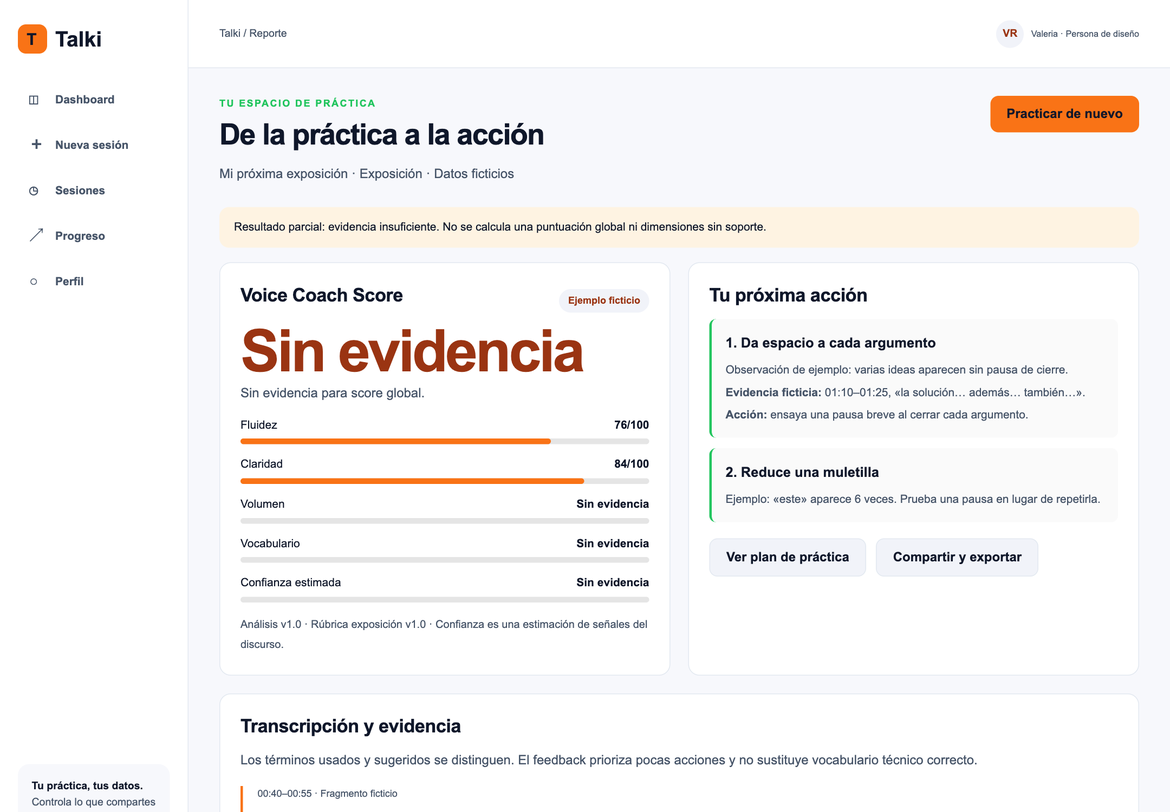
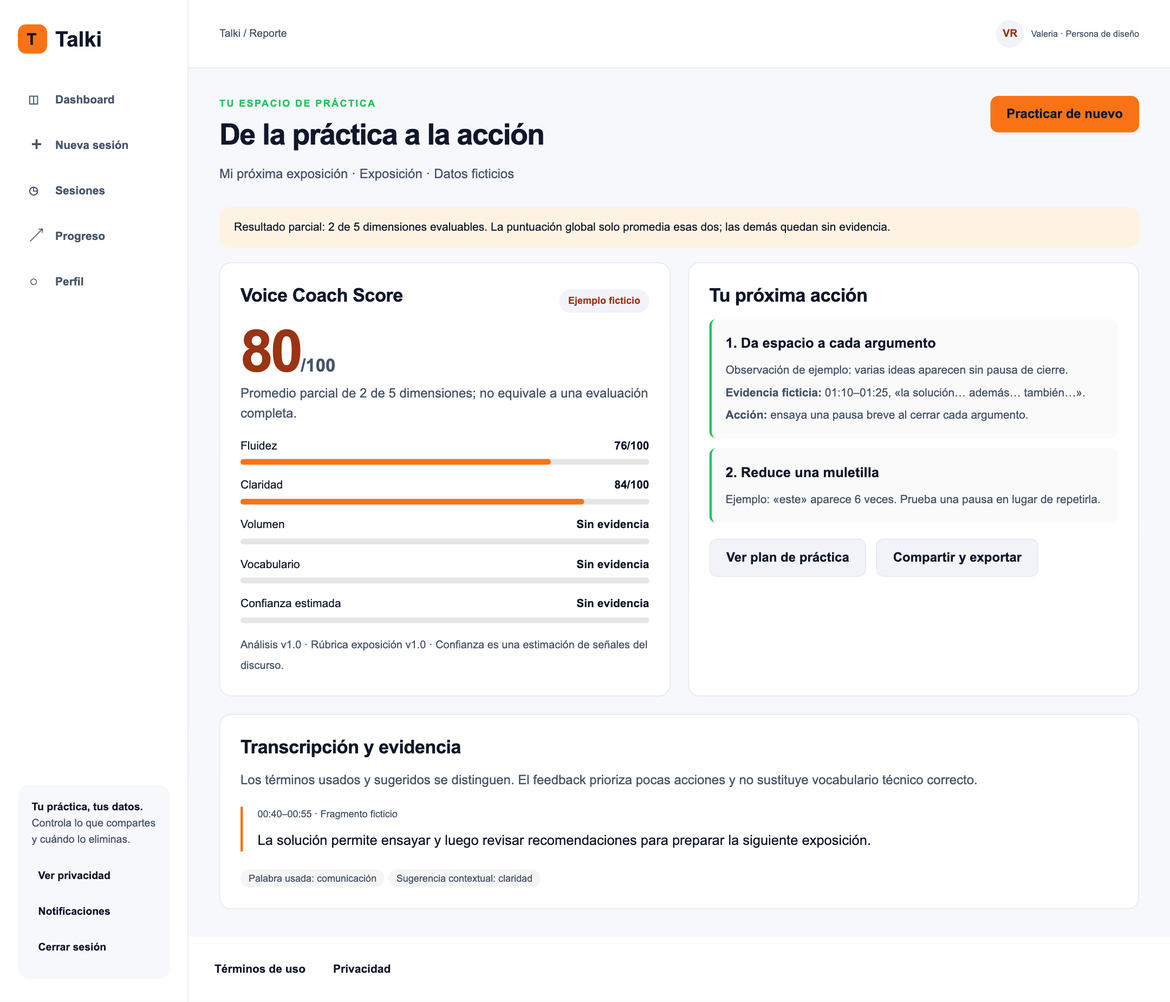
fix(ux): mantiene rúbrica y cobertura en reportes y exportación
El ejemplo parcial promedia sus dos dimensiones evaluables y conserva modo, rúbrica y cobertura en lectura compartida y exportación. Bloquea la comparación global de coberturas distintas. Capturas afectadas actualizadas y recorridos comprobados en web de 1440 px y móvil de 390 px. Actualiza el registro de versión y las explicaciones UX.

diff --git a/assets/ux/prototype/app.js b/assets/ux/prototype/app.js
@@ -13,7 +13,11 @@ const brand = () => `<a class="brand" href="#landing"><span class="brand-icon" a
 const field = (label,name,type='text',value='',extra='') => `<div class="field"><label for="${name}">${label}</label><input id="${name}" name="${name}" type="${type}" value="${escapeHtml(value)}" ${extra}></div>`;
 const head = (title,subtitle,actions='') => `<div class="page-title"><div><div class="eyebrow">Tu espacio de práctica</div><h1 tabindex="-1">${title}</h1><p>${subtitle}</p></div><div class="actions">${actions}</div></div>`;
 const note = text => `<div class="notice">${text}</div>`;
-const dimensions = (partial=false) => ['Fluidez','Claridad','Volumen','Vocabulario','Confianza estimada'].map((name,i)=>`<div class="dimension"><div class="flex-between"><span>${name}</span><strong>${partial && i>1?'Sin evidencia':[76,84,81,73,79][i]+'/100'}</strong></div><div class="dimension-track"><i style="width:${partial&&i>1?0:[76,84,81,73,79][i]}%"></i></div></div>`).join('');
+const sampleScores = [76,84,81,73,79];
+const evaluatedScores = () => demo.insufficient ? sampleScores.slice(0,2) : sampleScores;
+const overallScore = () => {const values=evaluatedScores();return values.length ? Math.round(values.reduce((total,value)=>total+value,0)/values.length) : null;};
+const rubricLabel = () => `${demo.mode.toLowerCase()} v1.0`;
+const dimensions = (partial=false) => ['Fluidez','Claridad','Volumen','Vocabulario','Confianza estimada'].map((name,i)=>`<div class="dimension"><div class="flex-between"><span>${name}</span><strong>${partial && i>1?'Sin evidencia':sampleScores[i]+'/100'}</strong></div><div class="dimension-track"><i style="width:${partial&&i>1?0:sampleScores[i]}%"></i></div></div>`).join('');
 const wave = () => `<div class="wave" aria-hidden="true">${Array.from({length:48},(_,i)=>`<i style="height:${15+Math.abs(Math.sin(i*1.8))*65+Math.abs(Math.cos(i*.4))*25}px"></i>`).join('')}</div>`;
 const chart = () => `<svg class="chart" viewBox="0 0 560 220" role="img" aria-label="Ejemplo ficticio: puntuaciones 65, 71, 68, 76 y 79. No representa resultados reales."><g stroke="var(--border)"><path d="M45 30H535M45 80H535M45 130H535M45 180H535"/></g><g><text x="12" y="34">90</text><text x="12" y="84">80</text><text x="12" y="134">70</text><text x="12" y="184">60</text></g><path d="M55 155L170 125L285 140L400 100L520 85L520 180L55 180Z" fill="var(--muted)"/><path d="M55 155L170 125L285 140L400 100L520 85" fill="none" stroke="var(--chart-1)" stroke-width="3"/><g fill="var(--chart-1)">${[[55,155],[170,125],[285,140],[400,100],[520,85]].map(([x,y])=>`<circle cx="${x}" cy="${y}" r="5"/>`).join('')}</g><g><text x="44" y="208">S1</text><text x="159" y="208">S2</text><text x="274" y="208">S3</text><text x="389" y="208">S4</text><text x="509" y="208">S5</text></g></svg>`;
 function sessionRows(){
@@ -35,13 +39,13 @@ const screens = {
  microphone:()=>shell(head('Comprueba el audio','Antes de practicar, revisa qué información se procesa y valida tu entrada de voz.')+`<div class="stepper"><div class="step"><span>1</span> Configurar</div><div class="step active"><span>2</span> Audio y privacidad</div><div class="step"><span>3</span> Practicar</div></div><div class="two-grid"><div class="card"><h2>Prueba de micrófono</h2><p>Habla una frase corta para comprobar el nivel de entrada en la aplicación final.</p><div class="meter"><span style="width:${demo.mic?'68':'0'}%"></span></div><p id="mic-state">${demo.mic?'Prueba simulada correcta. Nivel suficiente.':'Aún no has probado el audio.'}</p><div class="actions">${button('Simular prueba correcta','mic-ok')}${button('Simular permiso denegado','mic-denied','secondary')}</div><small>Esta demostración no solicita ni captura audio.</small></div><div class="card"><h2>Tú decides sobre tus datos</h2><ul class="details-list"><li>La voz se procesa para transcripción, coaching y análisis autorizados.</li><li>El audio crudo no se conserva por defecto.</li><li>El transcript y feedback se guardan para tu historial.</li><li>El material de contexto solo se utiliza si lo autorizas.</li><li>Puedes revocar acceso y solicitar eliminación desde Privacidad.</li></ul><label class="check"><input id="consent" type="checkbox" ${demo.consent?'checked':''}><span>Autorizo el procesamiento de esta práctica y su material para las finalidades descritas (política propuesta v1.0).</span></label></div></div><div class="actions" style="margin-top:22px">${goButton('Volver a configuración','setup','secondary')}<button type="button" data-action="start-live" ${demo.mic&&demo.consent?'':'disabled'}>Iniciar práctica</button></div>`),
  live:()=>shell(head(escapeHtml(demo.title),`${escapeHtml(demo.mode)} · Objetivo ${demo.duration} min · Demostración sin grabación`,button(demo.muted?'Activar señales':'Silenciar señales','mute','secondary'))+`${demo.disconnected?'<div class="notice warning">Conexión interrumpida. El último checkpoint confirmado se conserva. Reanuda o finaliza con resultado parcial.</div>':''}<div class="two-grid"><section class="live-panel"><span class="tag ${demo.paused||demo.disconnected?'warning':''}">${demo.disconnected?'Interrumpida':demo.paused?'En pausa':'Práctica activa de ejemplo'}</span><div class="timer">02:34 <small style="font-size:17px;color:var(--muted)">/ ${String(demo.duration).padStart(2,'0')}:00</small></div>${wave()}<p>${demo.mode==='Entrevista'||demo.mode==='Sustentación'?'Pregunta de ejemplo: ¿Cómo justificas la decisión principal de tu proyecto?':'Habla con calma. Las señales son discretas y puedes silenciarlas.'}</p>${!demo.muted?'<div class="notice">Señal de ejemplo: cierra la idea y deja una pausa breve.</div>':''}<div class="live-controls">${button(demo.paused?'Reanudar':'Pausar','pause','secondary')}${button('Finalizar práctica','finish','danger')}</div></section><section class="card"><h2>Transcripción en vivo</h2><span class="pill">Contenido ficticio</span><div class="transcript"><small>02:12 · Fragmento confirmado</small>El objetivo de nuestro proyecto es ayudar a estudiantes a practicar su comunicación oral con recomendaciones concretas.</div><p>El último fragmento confirmado puede recuperarse. Lo que no se confirmó antes de una desconexión puede perderse.</p><div class="actions">${button(demo.disconnected?'Reanudar conexión':'Simular desconexión',demo.disconnected?'reconnect':'disconnect','secondary')}</div></section></div>`),
  processing:()=>shell(head('Tu reporte está en camino','El estado distingue espera, procesamiento, reporte disponible y fallo recuperable.')+`<section class="card" style="max-width:760px;margin:auto"><h2>${demo.analysisFailed?'Análisis interrumpido':'Analizando el ensayo de ejemplo'}</h2><div class="meter"><span style="width:${demo.analysisFailed?'45':'75'}%;background:${demo.analysisFailed?'var(--danger)':'var(--primary)'}"></span></div><ul class="details-list"><li>Transcripción consolidada · Completa</li><li>Métricas de discurso · ${demo.analysisFailed?'Fallo recuperable':'En proceso'}</li><li>Feedback con evidencia · Pendiente</li></ul>${demo.analysisFailed?'<div class="notice warning">No se pudo completar el análisis. Puedes reintentar sobre la misma sesión sin crear un reporte duplicado.</div>':note('Puedes volver al historial. El objetivo de diseño es disponer del 95 % de reportes en ≤ 60 s; todavía debe medirse con el producto.')}<div class="actions">${button(demo.analysisFailed?'Reintentar análisis':'Simular reporte disponible',demo.analysisFailed?'retry':'complete')}${button('Simular fallo','analysis-fail','secondary')}${button('Simular evidencia insuficiente','insufficient','secondary')}${goButton('Ir al historial','history','text')}</div></section>`),
- report:()=>demo.deleted?shell(head('Reporte no disponible','El recurso fue retirado y no puede consultarse.')+note('La eliminación lógica bloquea el acceso; la purga física se muestra en Privacidad.')+goButton('Ver privacidad','privacy')):shell(head('De la práctica a la acción',`${escapeHtml(demo.title)} · ${escapeHtml(demo.mode)} · Datos ficticios`,goButton('Practicar de nuevo','setup'))+`${demo.insufficient?'<div class="notice warning">Resultado parcial: evidencia insuficiente. No se calcula una puntuación global ni dimensiones sin soporte.</div>':''}<div class="two-grid"><section class="card"><div class="flex-between"><h2>Voice Coach Score</h2><span class="pill">Ejemplo ficticio</span></div><div class="score-large">${demo.insufficient?'Sin evidencia':'79'}<small>${demo.insufficient?'':'/100'}</small></div><p>${demo.insufficient?'Sin evidencia para score global.':'Referencia para practicar, no una calificación académica.'}</p>${dimensions(demo.insufficient)}<small>Análisis v1.0 · Rúbrica exposición v1.0 · Confianza es una estimación de señales del discurso.</small></section><section class="card"><h2>Tu próxima acción</h2><div class="suggestion"><h3>1. Da espacio a cada argumento</h3><p>Observación de ejemplo: varias ideas aparecen sin pausa de cierre.</p><p><strong>Evidencia ficticia:</strong> 01:10–01:25, «la solución… además… también…».</p><p><strong>Acción:</strong> ensaya una pausa breve al cerrar cada argumento.</p></div><div class="suggestion"><h3>2. Reduce una muletilla</h3><p>Ejemplo: «este» aparece 6 veces. Prueba una pausa en lugar de repetirla.</p></div><div class="actions" style="margin-top:20px">${goButton('Ver plan de práctica','plan','secondary')}${goButton('Compartir y exportar','privacy','secondary')}</div></section></div><section class="card" style="margin-top:22px"><h2>Transcripción y evidencia</h2><p>Los términos usados y sugeridos se distinguen. El feedback prioriza pocas acciones y no sustituye vocabulario técnico correcto.</p><div class="transcript"><small>00:40–00:55 · Fragmento ficticio</small>La solución permite ensayar y luego revisar recomendaciones para preparar la siguiente exposición.</div><span class="tag muted">Palabra usada: comunicación</span> <span class="tag muted">Sugerencia contextual: claridad</span></section>`),
+ report:()=>demo.deleted?shell(head('Reporte no disponible','El recurso fue retirado y no puede consultarse.')+note('La eliminación lógica bloquea el acceso; la purga física se muestra en Privacidad.')+goButton('Ver privacidad','privacy')):shell(head('De la práctica a la acción',`${escapeHtml(demo.title)} · ${escapeHtml(demo.mode)} · Datos ficticios`,goButton('Practicar de nuevo','setup'))+`${demo.insufficient?'<div class="notice warning">Resultado parcial: 2 de 5 dimensiones evaluables. La puntuación global solo promedia esas dos; las demás quedan sin evidencia.</div>':''}<div class="two-grid"><section class="card"><div class="flex-between"><h2>Voice Coach Score</h2><span class="pill">Ejemplo ficticio</span></div><div class="score-large">${overallScore() ?? 'Sin evidencia'}<small>${overallScore()===null?'':'/100'}</small></div><p>${demo.insufficient?'Promedio parcial de 2 de 5 dimensiones; no equivale a una evaluación completa.':'Referencia para practicar, no una calificación académica.'}</p>${dimensions(demo.insufficient)}<small>Análisis v1.0 · Rúbrica ${escapeHtml(rubricLabel())} · Confianza es una estimación de señales del discurso.</small></section><section class="card"><h2>Tu próxima acción</h2><div class="suggestion"><h3>1. Da espacio a cada argumento</h3><p>Observación de ejemplo: varias ideas aparecen sin pausa de cierre.</p><p><strong>Evidencia ficticia:</strong> 01:10–01:25, «la solución… además… también…».</p><p><strong>Acción:</strong> ensaya una pausa breve al cerrar cada argumento.</p></div><div class="suggestion"><h3>2. Reduce una muletilla</h3><p>Ejemplo: «este» aparece 6 veces. Prueba una pausa en lugar de repetirla.</p></div><div class="actions" style="margin-top:20px">${goButton('Ver plan de práctica','plan','secondary')}${goButton('Compartir y exportar','privacy','secondary')}</div></section></div><section class="card" style="margin-top:22px"><h2>Transcripción y evidencia</h2><p>Los términos usados y sugeridos se distinguen. El feedback prioriza pocas acciones y no sustituye vocabulario técnico correcto.</p><div class="transcript"><small>00:40–00:55 · Fragmento ficticio</small>La solución permite ensayar y luego revisar recomendaciones para preparar la siguiente exposición.</div><span class="tag muted">Palabra usada: comunicación</span> <span class="tag muted">Sugerencia contextual: claridad</span></section>`),
  history:()=>shell(head('Tu historial','Recupera reportes propios y encuentra la práctica que quieres revisar.',goButton('Nueva práctica','setup'))+`<div class="card"><div class="search-bar"><div class="field"><label for="history-search">Buscar por título</label><input id="history-search" type="search" placeholder="Ej.: exposición"></div><div class="field"><label for="history-mode">Modo</label><select id="history-mode"><option>Todos</option><option>Exposición</option><option>Pitch</option></select></div></div><div id="history-results">${sessionRows()}</div><div class="actions" style="margin-top:18px">${goButton('Comparar dos prácticas','compare','secondary')}${goButton('Ver progreso','progress','text')}</div></div>`),
  progress:()=>shell(head('Observa tu evolución','Compara evidencia compatible y elige una acción para tu siguiente ensayo.',goButton('Comparar sesiones','compare','secondary'))+`${demo.deleted?note('El recurso eliminado ya no participa en la tendencia de este recorrido.'):''}<div class="two-grid"><section class="card"><div class="flex-between"><h2>Voice Coach Score · Ejemplo</h2><span class="tag muted">Rúbrica 1.0</span></div>${demo.deleted?'<div class="empty">Sin datos en el recorrido reiniciado.</div>':chart()}<p style="font-size:13px">Valores ficticios: 65, 71, 68, 76 y 79. La variación no demuestra mejora causal ni se mezcla con rúbricas incompatibles.</p></section><section class="card"><h2>Un enfoque para esta semana</h2><p>Ejemplo de patrón recurrente: cerrar ideas sin una pausa.</p><div class="suggestion"><h3>Ensayo de tres argumentos</h3><p>Practica 3 minutos y deja una pausa breve después de cada argumento.</p><small>Base de ejemplo: reportes S3 y S5, análisis y rúbrica v1.0.</small></div>${goButton('Abrir plan adaptativo','plan','text')}</section></div>`),
- compare:()=>shell(head('Compara dos prácticas','La compatibilidad de modo, rúbrica y análisis debe verificarse antes de calcular diferencias.')+`<section class="card"><div class="form-grid"><div class="field"><label for="compare-a">Primera sesión</label><select id="compare-a"><option>Exposición S3 · Score ficticio 68 · Rúbrica 1.0</option></select></div><div class="field"><label for="compare-b">Segunda sesión</label><select id="compare-b"><option value="compatible">Exposición S5 · Score ficticio 79 · Rúbrica 1.0</option><option value="incompatible">Entrevista · Rúbrica 2.0 (incompatible)</option></select></div></div><div id="compare-result">${note('Ejemplo compatible: diferencia +11 puntos. Revisa la evidencia y el tamaño de muestra; una variación aislada no demuestra una mejora sostenida.')}</div>${goButton('Ver plan','plan')}</section>`),
+ compare:()=>shell(head('Compara dos prácticas','La compatibilidad de modo, rúbrica y análisis debe verificarse antes de calcular diferencias.')+`<section class="card"><div class="form-grid"><div class="field"><label for="compare-a">Primera sesión</label><select id="compare-a"><option>Exposición S3 · Score ficticio 68 · Rúbrica 1.0</option></select></div><div class="field"><label for="compare-b">Segunda sesión</label><select id="compare-b"><option value="compatible">Exposición S5 · Score ficticio 79 · Rúbrica 1.0</option><option value="incompatible">Entrevista · Rúbrica 2.0 (incompatible)</option><option value="partial">Exposición · Rúbrica 1.0 · 2 de 5 dimensiones (parcial)</option></select></div></div><div id="compare-result">${note('Ejemplo compatible: diferencia +11 puntos. Revisa la evidencia y el tamaño de muestra; una variación aislada no demuestra una mejora sostenida.')}</div>${goButton('Ver plan','plan')}</section>`),
  plan:()=>shell(head('Un plan para tu próxima práctica','Cada ejercicio explica qué patrón intenta trabajar.')+`<div class="two-grid"><section class="card"><span class="pill">Propuesta de ejercicio</span><h2 style="margin-top:18px">Tres argumentos, tres pausas</h2><p>Prepara una idea con tres argumentos. Haz una pausa breve al cerrar cada uno y repite el ensayo durante tres minutos.</p><div class="notice">Motivo de ejemplo: pausas de cierre ausentes en S3 y S5, bajo la misma rúbrica y análisis.</div><label class="check"><input id="plan-done" type="checkbox" ${demo.planDone?'checked':''}><span>He estudiado este ejercicio en la demostración.</span></label>${goButton('Practicar este ejercicio','setup')}</section><section class="card"><h2>Si aún no tienes historial</h2><p>Empieza con una práctica inicial. El producto no puede atribuirte errores recurrentes sin evidencia suficiente.</p><h3>La recomendación debe poder explicarse</h3><p>Dimensión, periodo, sesiones fuente, versiones y acción concreta acompañan a cada ejercicio.</p></section></div>`),
  privacy:()=>shell(head('Tu práctica, bajo tu control','Compartir, revocar y eliminar son acciones distintas.')+`<div class="two-grid"><section class="card"><h2>Compartir un reporte</h2><p>Un tutor puede consultar solo este reporte, con acceso de lectura y expiración. Una copia descargada no puede recuperarse.</p><div class="field"><label for="share-duration">Vigencia propuesta</label><select id="share-duration"><option>24 horas</option><option>7 días</option></select></div><div class="actions">${button('Crear enlace de ejemplo','share')}${button('Revocar enlace','revoke','secondary')}</div><div id="share-state">${demo.deleted?note('Este recurso fue eliminado; no puede compartirse.'):demo.shared&&!demo.revoked?note('Enlace de ejemplo activo. No concede acceso real ni envía datos.')+goButton('Ver como tutor','shared','text'):note(demo.revoked?'El enlace fue revocado. El tutor pierde el acceso.':'Aún no has creado un enlace en este recorrido.')}</div>${button('Exportar reporte de ejemplo','export','secondary')}</section><section class="card"><h2>Consentimiento y eliminación</h2><p>Retirar consentimiento detiene nuevo procesamiento del alcance revocado. Eliminar retira el recurso y activa su purga.</p><div class="actions">${button('Revocar consentimiento','withdraw','secondary')}${button('Eliminar sesión de ejemplo','delete','danger')}</div>${demo.deleted?'<div class="notice warning">Acceso bloqueado · Purga física pendiente. En el producto se confirmará al recibir los recibos de todos los contextos.</div>':note('Audio crudo: sin conservación por defecto. Transcript y feedback: bajo tu control. La política final de retención debe acordarse antes de operar.')}<h3>Privacidad sin sorpresas</h3><p>Los reportes compartidos no incluyen otras sesiones, documentos de contexto ni acceso a tu cuenta.</p></section></div>`),
- shared:()=>publicShell(`<section class="section"><h1 tabindex="-1">${demo.deleted||demo.revoked||!demo.shared?'Enlace no disponible':'Reporte compartido · Solo lectura'}</h1>${demo.deleted||demo.revoked||!demo.shared?'<div class="notice warning">El enlace no existe, fue revocado o expiró. No se muestra información del reporte.</div>':`<div class="card"><span class="pill">Ejemplo ficticio · Acceso limitado</span><h2 style="margin-top:18px">Exposición: proyecto de curso</h2><div class="score-large">79<small>/100</small></div><p>Rúbrica v1.0 · Análisis v1.0 · Vigencia de ejemplo: 24 horas</p><div class="suggestion"><h3>Siguiente acción de ejemplo</h3><p>Dejar una pausa breve al cerrar cada argumento.</p></div><p style="margin-top:20px">No puedes editar ni consultar otras sesiones.</p></div>`}${goButton('Volver a privacidad','privacy','secondary')}</section>`),
+ shared:()=>publicShell(`<section class="section"><h1 tabindex="-1">${demo.deleted||demo.revoked||!demo.shared?'Enlace no disponible':'Reporte compartido · Solo lectura'}</h1>${demo.deleted||demo.revoked||!demo.shared?'<div class="notice warning">El enlace no existe, fue revocado o expiró. No se muestra información del reporte.</div>':`<div class="card"><span class="pill">Ejemplo ficticio · Acceso limitado</span><h2 style="margin-top:18px">${escapeHtml(demo.title)} · ${escapeHtml(demo.mode)}</h2><div class="score-large">${overallScore() ?? 'Sin evidencia'}<small>${overallScore()===null?'':'/100'}</small></div><p>Rúbrica ${escapeHtml(rubricLabel())} · Análisis v1.0 · ${evaluatedScores().length} de 5 dimensiones evaluables · Vigencia de ejemplo: 24 horas</p><div class="suggestion"><h3>Siguiente acción de ejemplo</h3><p>Dejar una pausa breve al cerrar cada argumento.</p></div><p style="margin-top:20px">No puedes editar ni consultar otras sesiones.</p></div>`}${goButton('Volver a privacidad','privacy','secondary')}</section>`),
  preferences:()=>shell(head('Tus notificaciones','Decide si quieres recibir avisos opcionales. Los mensajes de seguridad tienen otra finalidad.')+`<section class="card"><label class="check"><input id="optional-email" type="checkbox" ${demo.optionalEmail?'checked':''}><span>Recibir avisos opcionales de reportes y práctica por correo.</span></label>${note('Verificación de cuenta y recuperación de acceso son mensajes transaccionales. Ningún correo de reporte debe incluir transcript, score o documentos privados.')}<p>Esta preferencia se mantiene solo mientras exploras el prototipo.</p></section>`)
 };
 // En escritorio, las pantallas ya disponibles usan sus capturas originales.
@@ -83,7 +87,7 @@ function wireForms(){
  document.getElementById('setup-form')?.addEventListener('submit',e=>{e.preventDefault();demo.title=document.getElementById('session-title').value;demo.goal=document.getElementById('session-goal').value;demo.duration=Number(document.getElementById('duration').value);demo.mode=document.querySelector('[name=mode]:checked').value;demo.mic=false;demo.consent=false;go('microphone');});
  document.getElementById('material')?.addEventListener('change',e=>{const file=e.target.files[0];if(!file)return;if(file.size>10*1024*1024||!(/\.(pdf|txt|pptx)$/i).test(file.name)){e.target.value='';demo.material='';document.getElementById('material-name').textContent='';toast('Usa PDF, TXT o PPTX de hasta 10 MB.');return;}demo.material=file.name;document.getElementById('material-name').textContent=`Material autorizado de ejemplo: ${file.name}`;});
  document.getElementById('consent')?.addEventListener('change',e=>{demo.consent=e.target.checked;document.querySelector('[data-action=start-live]').disabled=!(demo.mic&&demo.consent);});
- document.getElementById('compare-b')?.addEventListener('change',e=>{document.getElementById('compare-result').innerHTML=e.target.value==='incompatible'?'<div class="notice warning">No se pueden comparar: modo y versión de rúbrica diferentes. Elige sesiones compatibles.</div>':note('Diferencia ficticia +11 puntos; no demuestra mejora sostenida por sí sola.');});
+ document.getElementById('compare-b')?.addEventListener('change',e=>{document.getElementById('compare-result').innerHTML=e.target.value==='incompatible'?'<div class="notice warning">No se pueden comparar: modo y versión de rúbrica diferentes. Elige sesiones compatibles.</div>':e.target.value==='partial'?'<div class="notice warning">No se compara la puntuación global: las sesiones tienen distinta cobertura. Revisa únicamente las dimensiones evaluables en ambas.</div>':note('Diferencia ficticia +11 puntos; no demuestra mejora sostenida por sí sola.');});
  document.getElementById('optional-email')?.addEventListener('change',e=>{demo.optionalEmail=e.target.checked;toast('Preferencia de ejemplo actualizada.');});
  document.getElementById('plan-done')?.addEventListener('change',e=>demo.planDone=e.target.checked);
  for(const id of ['history-search','history-mode'])document.getElementById(id)?.addEventListener('input',()=>{const query=document.getElementById('history-search').value.toLowerCase();const mode=document.getElementById('history-mode').value;document.querySelectorAll('#history-results .session-row').forEach(row=>{row.hidden=!row.textContent.toLowerCase().includes(query)||(mode!=='Todos'&&!row.textContent.includes(mode));row.style.display=row.hidden?'none':'';});});
@@ -109,7 +113,7 @@ app.addEventListener('click',e=>{
  if(action==='revoke'){demo.revoked=true;render('privacy',false);toast('El enlace de ejemplo ya no permite acceso.');}
  if(action==='delete')confirmation('¿Eliminar la sesión de ejemplo?','Se bloquearán accesos y enlaces. La purga física permanecerá pendiente de confirmación.',()=>{demo.deleted=true;demo.revoked=true;demo.material='';render('privacy');toast('Eliminación lógica de ejemplo completada; purga pendiente.');});
  if(action==='withdraw')confirmation('¿Revocar el consentimiento?','No podrás iniciar una nueva práctica sin autorizar el procesamiento. No equivale a eliminar el historial.',()=>{demo.consent=false;toast('Consentimiento de ejemplo revocado.');});
- if(action==='export'){if(demo.deleted)return toast('El recurso fue eliminado; no puede exportarse.');const blob=new Blob(['TALKI · REPORTE DE EJEMPLO FICTICIO\nNo es un análisis real ni una nota académica.\nScore: '+(demo.insufficient?'Sin evidencia':'79/100')+'\nAnálisis v1.0 · Rúbrica v1.0\nAcción de ejemplo: dejar una pausa al cerrar argumentos.'],{type:'text/plain;charset=utf-8'});const url=URL.createObjectURL(blob);const a=document.createElement('a');a.href=url;a.download='talki-reporte-ejemplo.txt';a.click();setTimeout(()=>URL.revokeObjectURL(url),1000);toast('Exportación de ejemplo: solo incluye datos ficticios.');}
+ if(action==='export'){if(demo.deleted)return toast('El recurso fue eliminado; no puede exportarse.');const blob=new Blob(['TALKI · REPORTE DE EJEMPLO FICTICIO\nNo es un análisis real ni una nota académica.\nScore: '+(overallScore()===null?'Sin evidencia':overallScore()+'/100')+'\nAnálisis v1.0 · Rúbrica '+rubricLabel()+'\nCobertura: '+evaluatedScores().length+' de 5 dimensiones evaluables.\n'+(demo.insufficient?'Limitación: volumen, vocabulario y confianza estimada sin evidencia.\n':'')+'Acción de ejemplo: dejar una pausa al cerrar argumentos.'],{type:'text/plain;charset=utf-8'});const url=URL.createObjectURL(blob);const a=document.createElement('a');a.href=url;a.download='talki-reporte-ejemplo.txt';a.click();setTimeout(()=>URL.revokeObjectURL(url),1000);toast('Exportación de ejemplo: solo incluye datos ficticios.');}
  if(action==='logout')confirmation('¿Cerrar sesión?',demo.screen==='live'?'Hay una práctica activa en la demostración. Confirma antes de salir.':'Se cerrará el recorrido de ejemplo.',()=>go('login'));
 });
 window.addEventListener('hashchange',()=>render(location.hash.slice(1)));

diff --git a/README.md b/README.md
@@ -82,6 +82,7 @@
 | 1.16 | 05/10/2026 | Oroncoy Almeyda, Alejandro Daniel | Revisión del tono del Student Outcome: redacción en primera persona y distinción entre documentación realizada, revisión asignada y sustentación pendiente. |
 | 1.17 | 05/10/2026 | Oroncoy Almeyda, Alejandro Daniel | Corrección integral del TP: modelos UML, componentes C4, contratos, persistencia, trazabilidad IV–VI, wireflows por objetivo, guías visuales, metadatos, internacionalización propuesta y síntesis de entrevistas. Actualización del Student Outcome y preparación de evidencias; revisión individual y materiales audiovisuales pendientes. |
 | 1.18 | 05/10/2026 | Oroncoy Almeyda, Alejandro Daniel | Reorganización de la información de colaboración: evidencias de GitHub en Project Report Collaboration Insights, aportes en Student Outcome e informe de participación en Anexos. Retirada de tablas y explicaciones duplicadas. |
+| 1.19 | 05/10/2026 | Oroncoy Almeyda, Alejandro Daniel | Revisión de congruencia del feedback: idioma de interfaz y conversación, materiales y voz móvil en despliegue, evidencia conservada del reporte, confirmaciones de purga y presentación de rúbricas y puntuaciones parciales. |
 
 La edición de las versiones 1.0–1.12 fue realizada por Alejandro Daniel Oroncoy Almeyda. Los demás nombres corresponden a los coautores registrados en los commits del avance, asociados en esta tabla por las secciones correspondientes. La revisión individual de esos integrantes continúa pendiente.
 
@@ -4357,7 +4358,7 @@ El mensaje explica que el análisis no pudo completarse y ofrece una acción par
 
 ##### Evidencia insuficiente
 
-El reporte indica qué dimensiones no pueden evaluarse y ofrece una acción para volver a practicar. La puntuación global se muestra únicamente cuando existe evidencia suficiente.
+El reporte distingue las dimensiones evaluables de las que no tienen soporte y ofrece volver a practicar. La puntuación global promedia solo las dimensiones evaluables e indica cuántas la sustentan; cuando ninguna puede evaluarse, muestra «Sin evidencia». Una puntuación parcial no se compara como si tuviera la misma cobertura que una completa.
 
 **Evidencia insuficiente (web)**
 

diff --git a/assets/ux/prototype/README.md b/assets/ux/prototype/README.md
@@ -9,7 +9,7 @@ Sirve la raíz del repositorio con `python3 -m http.server 8000` y visita `http:
 - `?reference=1`: conserva las seis capturas web del cliente como referencia visual estática.
 - Hashes: `#setup`, `#microphone`, `#live`, `#processing`, `#report`, `#history`, `#compare`, `#plan`, `#privacy`, `#shared`, `#terms`.
 
-En preparación, completa título/meta, selecciona modo y continúa. Comprueba el audio simulado y acepta el consentimiento para iniciar. Pausa o simula desconexión, reanuda y confirma el cierre. En análisis, explora fallo/reintento o un reporte parcial. En historial, filtra y compara; las versiones incompatibles se bloquean. El plan permite marcar un ejercicio y volver a practicar. En privacidad, comparte, consulta como tutor, revoca y confirma eliminación; se distingue el bloqueo de acceso de la purga pendiente. Recargar reinicia los datos.
+En preparación, completa título/meta, selecciona modo y continúa. Comprueba el audio simulado y acepta el consentimiento para iniciar. Pausa o simula desconexión, reanuda y confirma el cierre. En análisis, explora fallo/reintento o un reporte parcial. En historial, filtra y compara; las versiones incompatibles se bloquean y una diferencia de cobertura impide comparar puntuaciones globales. El reporte parcial promedia solo las dimensiones evaluables y conserva su rúbrica en la vista compartida y la exportación. El plan permite marcar un ejercicio y volver a practicar. En privacidad, comparte, consulta como tutor, revoca y confirma eliminación; se distingue el bloqueo de acceso de la purga pendiente. Recargar reinicia los datos.
 
 Los términos propuestos se acceden desde los footers públicos y de aplicación. El recorrido principal se presenta en español. El diseño bilingüe de en_US/es_419 se ilustra aparte en el informe; la integración del catálogo completo de traducciones y servicios está pendiente. La captura y publicación de las demostraciones por aplicación en Microsoft Stream también están pendientes.
 
